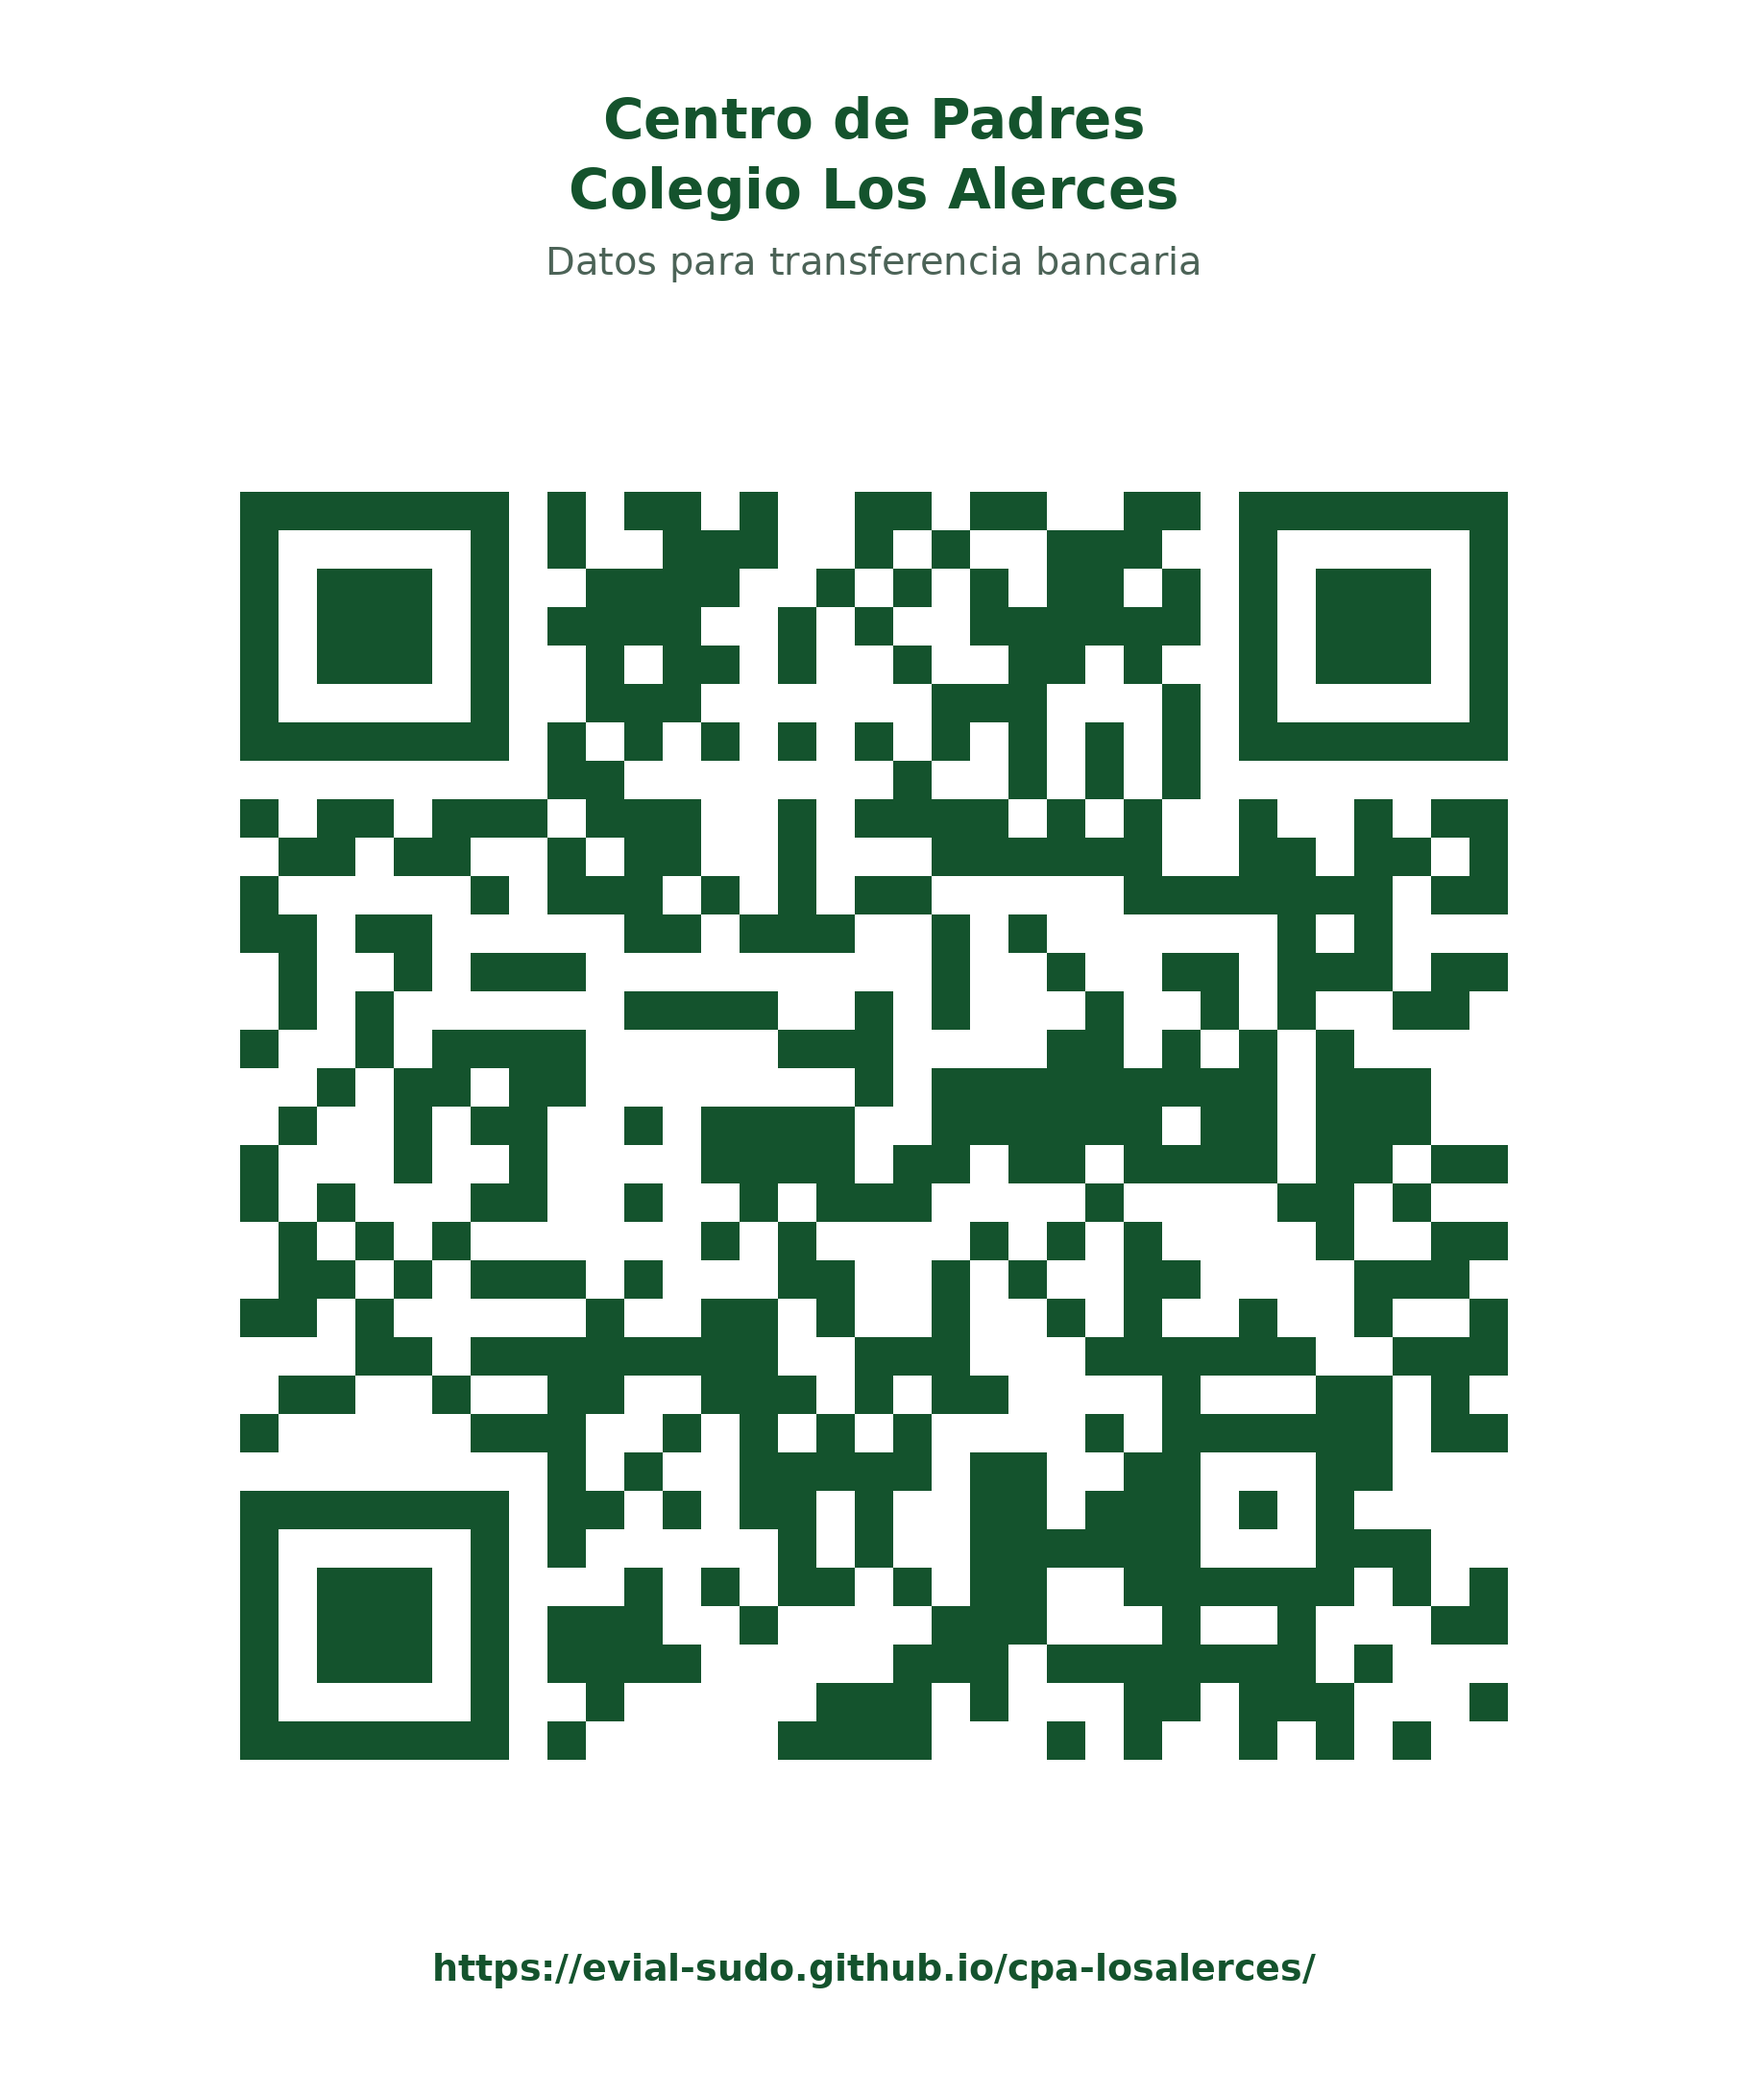
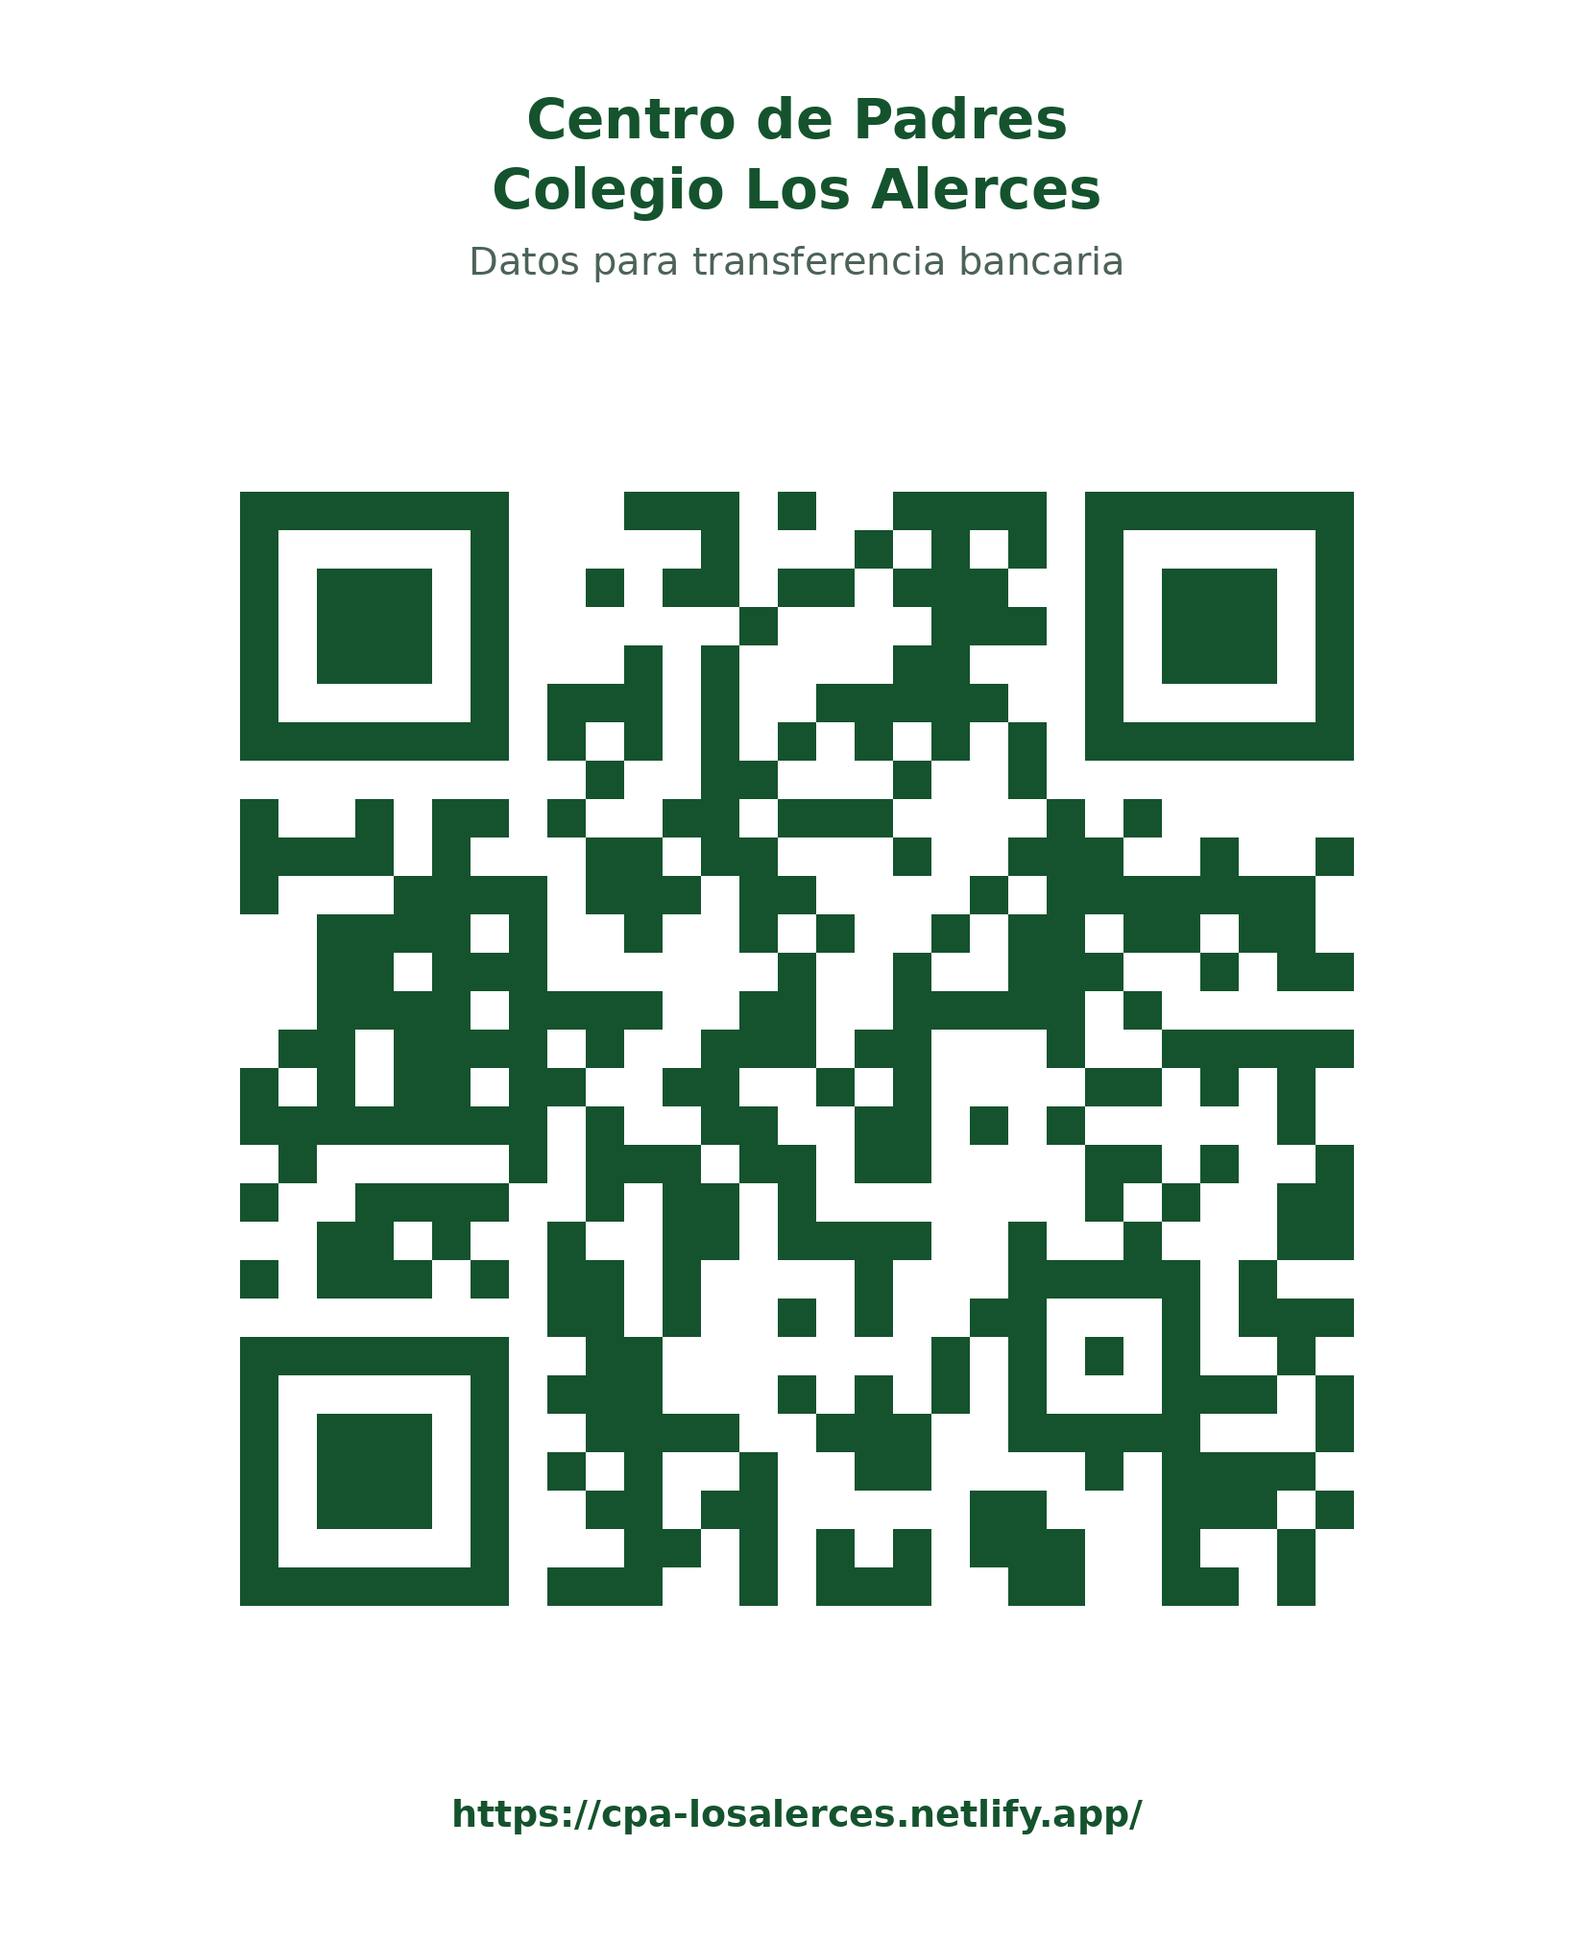
Apunta el QR y la documentacion a la direccion cpa-losalerces.netlify.app

Changed region(s): [[0.1229, 0.2181, 0.8602, 0.8412], [0.3072, 0.0312, 0.7066, 0.1558], [0.2458, 0.9036, 0.7373, 0.9659]]

diff --git a/generar-qr.py b/generar-qr.py
@@ -18,7 +18,7 @@ from PIL import Image, ImageDraw, ImageFont
 import qrcode
 from qrcode.constants import ERROR_CORRECT_M
 
-URL = "https://evial-sudo.github.io/cpa-losalerces/"
+URL = "https://cpa-losalerces.netlify.app/"
 BOSQUE = (20, 83, 45)        # verde bosque
 BLANCO = (255, 255, 255)
 GRIS = (76, 99, 87)

diff --git a/verificar-qr.py b/verificar-qr.py
@@ -6,7 +6,7 @@ import sys
 
 import cv2
 
-ESPERADA = "https://evial-sudo.github.io/cpa-losalerces/"
+ESPERADA = "https://cpa-losalerces.netlify.app/"
 ARCHIVOS = ["qr-cpa-losalerces.png", "qr-cpa-losalerces-poster.png"]
 
 detector = cv2.QRCodeDetector()

diff --git a/README.md b/README.md
@@ -2,13 +2,18 @@
 
 Página pública con los datos de transferencia bancaria del **Centro de Padres Colegio Los Alerces**.
 
-- **Sitio publicado:** https://evial-sudo.github.io/cpa-losalerces/
-- **Publicado con:** GitHub Pages (gratis, permanente, HTTPS).
-- **Archivo único:** `index.html` (HTML + CSS + JS + logo y favicon incrustados, sin dependencias ni CDN).
+| | |
+|---|---|
+| **Dirección principal** | https://cpa-losalerces.netlify.app/ |
+| Dirección de respaldo | https://evial-sudo.github.io/cpa-losalerces/ |
+| Publicado con | Netlify (principal) y GitHub Pages (respaldo), ambos gratis, permanentes y HTTPS |
+| Archivo único | `index.html` (HTML + CSS + JS + logo y favicon incrustados, sin dependencias ni CDN) |
 
-> Importante: este repositorio usa **una sola rama, `gh-pages`**. GitHub Pages publica
-> desde esa rama. No crees ni edites otra rama: si editas una copia en otra rama, el sitio
-> no se actualizará y podrías confundir versiones.
+Las dos direcciones sirven la **misma página**. La principal (Netlify) es la que se comparte y la que
+apunta el código QR; la de respaldo (GitHub Pages) se actualiza sola al subir cambios al repositorio.
+
+> Importante: el repositorio usa **una sola rama, `gh-pages`**. No crees ni edites otra rama: si
+> editas una copia en otra rama, el sitio no se actualizará y podrías confundir versiones.
 
 ## Archivos
 
@@ -19,6 +24,7 @@ Página pública con los datos de transferencia bancaria del **Centro de Padres 
 | `actualizar-logo.py` | Vuelve a incrustar el logo dentro de `index.html`. |
 | `generar-qr.py` | Genera los PNG del código QR. |
 | `verificar-qr.py` | Comprueba que los QR apunten a la URL correcta. |
+| `verificar-pagina.py` | Revisa `index.html` antes de publicar (estructura, logo y que cada dato visible coincida con lo que se copia). |
 | `qr-cpa-losalerces.png` | QR de alta resolución (1640×1640 px, nivel M). |
 | `qr-cpa-losalerces-poster.png` | QR con encabezado, para imprimir y pegar. |
 
@@ -46,27 +52,37 @@ Ejemplo de una fila:
 - Para **quitar** un dato: borra la fila completa.
 - No cambies `class="row"` ni los atributos `data-field` / `data-value`.
 
-### Publicar el cambio (opción simple, desde el navegador)
+Antes de publicar, conviene revisar que todo quedó bien:
+
+```bash
+python3 verificar-pagina.py
+```
+
+### 1. Editar (desde el navegador, lo más simple)
 
 1. Abre https://github.com/evial-sudo/cpa-losalerces/blob/gh-pages/index.html
 2. Haz clic en el lápiz (Edit this file), aplica los cambios y confirma con **Commit changes**.
-3. Espera 1–2 minutos y refresca https://evial-sudo.github.io/cpa-losalerces/
+3. El respaldo de GitHub Pages se actualiza solo en 1–2 minutos.
 
-### Publicar el cambio (por Git)
+### 2. Publicar en la dirección principal (Netlify)
 
-```bash
-git clone https://github.com/evial-sudo/cpa-losalerces.git
-cd cpa-losalerces
-# edita index.html
-git commit -am "Actualiza datos de transferencia"
-git push origin gh-pages
-```
+Netlify **no** está enlazado al repositorio, así que un cambio en GitHub no llega solo a
+`cpa-losalerces.netlify.app`. Hay dos formas de publicarlo:
 
-### Verificar después de publicar
+- **Manual (sin instalar nada):** entra a https://app.netlify.com/projects/cpa-losalerces,
+  abre la pestaña **Deploys** y arrastra la carpeta que contiene `index.html` al recuadro de
+  despliegue ("drag and drop"). Netlify publica de inmediato.
+- **Automática (recomendada, se hace una sola vez):** en Netlify, entra a
+  **Project configuration → Build & deploy → Link repository** y elige
+  `evial-sudo/cpa-losalerces`, rama `gh-pages`, directorio de publicación `/` (la raíz).
+  Desde ahí, cada cambio en `index.html` se publica solo.
+
+### 3. Verificar después de publicar
 
 - La página abre en el celular sin iniciar sesión y sin avisos de "sitio no seguro".
 - El botón **"Copiar todos los datos"** muestra "Copiado" y al pegar aparecen las 6 líneas.
 - Cada fila copia solo su valor y muestra "Copiado".
+- Abre la página con `Ctrl+Shift+R` (o borrando caché en el celular) para no ver la versión antigua.
 
 ## Cómo cambiar el logo
 
@@ -78,15 +94,17 @@ pip3 install pillow
 python3 actualizar-logo.py logo-original.png index.html
 ```
 
-El script recorta el margen blanco, comprime la imagen y la incrusta en `index.html`
-junto con el favicon. También deja `logo-web.png` y `favicon.png` por si los necesitas sueltos.
-3. Publica el cambio (commit y push a `gh-pages`).
+El script recorta el margen blanco, comprime la imagen, la incrusta en `index.html` junto con
+el favicon y verifica que el HTML no quede roto. También deja `logo-web.png` y `favicon.png`
+por si los necesitas sueltos.
+
+3. Publica el cambio (pasos 1 y 2 de arriba).
 
 El logo se muestra dentro de un recuadro blanco para que se vea bien también en modo oscuro.
 
 ## Código QR
 
-El QR apunta a `https://evial-sudo.github.io/cpa-losalerces/` (nivel de corrección de errores M).
+El QR apunta a `https://cpa-losalerces.netlify.app/` (nivel de corrección de errores M).
 Se puede volver a generar con:
 
 ```bash
@@ -95,4 +113,4 @@ python3 generar-qr.py
 python3 verificar-qr.py   # confirma que el QR apunta a la URL correcta
 ```
 
-**Si cambia la URL del sitio, hay que regenerar el QR.**
+**Si cambia la dirección del sitio, hay que regenerar el QR.**
